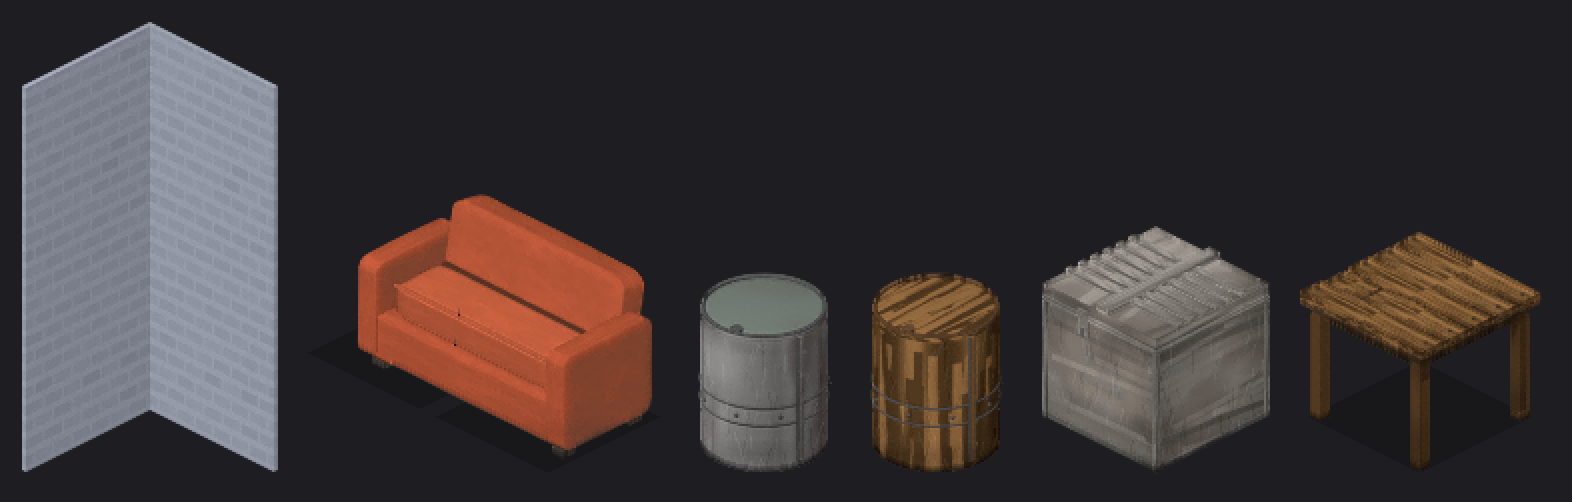
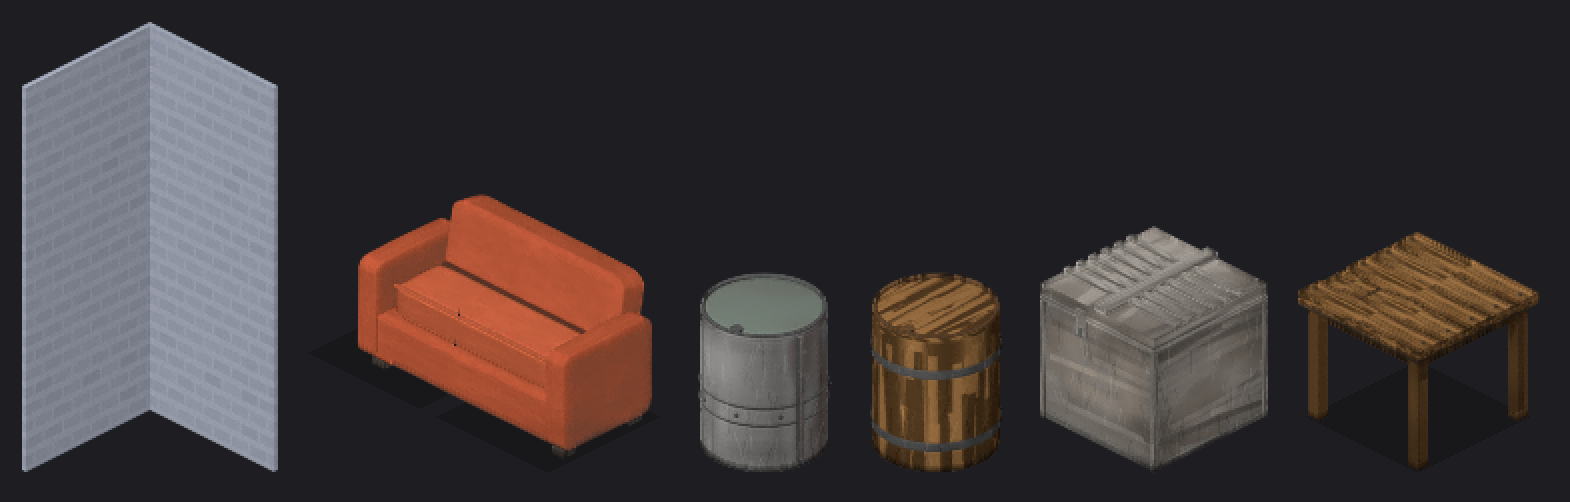
wooden drum: drop sheet-steel shapes, add binding hoops
The pressed rolling grooves, the bolted groove and the clinched seam strap
are material-born shapes -- sheet-steel forming -- so re-materialising them
in wood was still wrong. build_drum now takes grooves/seam_strap/bolts flags
(steel defaults unchanged) and an optional hoop_bands list that draws proud,
wide binding hoops with the dark role's material; the barrel turns those
shapes off and asks for two iron hoops instead.

Changed region(s): [[0.5306, 0.7171, 0.6554, 0.9263], [0.593, 0.6275, 0.6242, 0.6574], [0.5306, 0.6873, 0.5618, 0.7171]]

diff --git a/examples/metal_drum.py b/examples/metal_drum.py
@@ -189,7 +189,9 @@ def drum_materials() -> dict:
     }
 
 
-def build_drum(mats: dict | None = None) -> list[bpy.types.Object]:
+def build_drum(mats: dict | None = None, *, grooves: bool = True,
+               seam_strap: bool = True, bolts: bool = True,
+               hoop_bands: tuple[float, ...] = ()) -> list[bpy.types.Object]:
     """Stage 2 -- the drum's SHAPE, material-agnostic.
 
     A first attempt with three fat bright rings and isotropic mottling scored inside
@@ -218,6 +220,11 @@ def build_drum(mats: dict | None = None) -> list[bpy.types.Object]:
     # Conflating them was exactly the wooden drum's grey-rim mistake.
     cap_mat = mats.get("cap", dark_mat)
     bung_mat = mats.get("bung", dark_mat)
+    # Rolling grooves, the bolted lower groove and the vertical seam strap are
+    # MATERIAL-BORN shapes -- pressed and clinched sheet steel. A recipe in
+    # another material turns them off and asks for ``hoop_bands`` instead:
+    # proud, wide binding bands (a barrel's iron hoops) at the given heights,
+    # drawn with the "dark" role's material.
 
     r = DIAMETER / 2
     parts = []
@@ -297,8 +304,20 @@ def build_drum(mats: dict | None = None) -> list[bpy.types.Object]:
     # the lid. Vanilla's rim is a ring *inside* the top ellipse.
     ring("drum_chime", r - CHIME_RADIUS, CHIME_RADIUS, body_top, chime_mat)
     # Rolling grooves: thin, dark lines -- the opposite of a proud bright hoop.
-    for i, z in enumerate(GROOVE_HEIGHTS):
-        ring(f"drum_groove_{i}", r, 0.007, z, dark_mat)
+    if grooves:
+        for i, z in enumerate(GROOVE_HEIGHTS):
+            ring(f"drum_groove_{i}", r, 0.007, z, dark_mat)
+    # Binding bands for non-steel builds: open tubes standing proud of the
+    # shell, wide enough (3-4 px on screen) to read as forged hoops.
+    for i, z in enumerate(hoop_bands):
+        bpy.ops.mesh.primitive_cylinder_add(
+            vertices=64, radius=r + 0.008, depth=0.055, location=(0, 0, z),
+            end_fill_type="NOTHING")
+        band = bpy.context.active_object
+        band.name = f"drum_hoop_band_{i}"
+        band.data.materials.append(dark_mat)
+        shade_curved_sides()
+        parts.append(band)
 
     # The vanilla bung sits near the lid's front-left rim, not its centre: its pixel
     # position (44, 172) against the lid centre (64, 155) inverts through the
@@ -309,7 +328,7 @@ def build_drum(mats: dict | None = None) -> list[bpy.types.Object]:
              smooth=False, verts=16).location = (0.075, -0.29, bung_z)
 
     # Bolt heads dotted along the lower groove, as in the sprite.
-    for k in range(9):
+    for k in range(9 if bolts else 0):
         angle = math.radians(k * 40.0)
         bpy.ops.mesh.primitive_uv_sphere_add(segments=10, ring_count=6, radius=0.013,
                                              location=(math.sin(angle) * (r + 0.006),
@@ -345,24 +364,26 @@ def build_drum(mats: dict | None = None) -> list[bpy.types.Object]:
         parts.append(obj)
         return obj
 
-    # Backing plate, visible only as the two dark edge lines...
-    strap_box("drum_strap_back", 0.044, 0.022, 0.002, strap_h, strap_mid,
-              strap_edge_mat)
-    # ...because a narrower body-toned face sits proud of it. This is what makes the
-    # seam read raised: paint on its face, shadow lines at its borders. The vanilla
-    # strap is petite -- about 5 px overall with a 3 px face and 1 px lines -- and
-    # every wider or prouder build read as tape stuck on the barrel: the box is
-    # tangent-flat against a curved surface, so excess width shows up as a dark
-    # side face and excess proudness as silhouette bumps.
-    strap_box("drum_strap_face", 0.026, 0.024, 0.004, strap_h, strap_mid,
-              strap_face_mat)
+    if seam_strap:
+        # Backing plate, visible only as the two dark edge lines...
+        strap_box("drum_strap_back", 0.044, 0.022, 0.002, strap_h, strap_mid,
+                  strap_edge_mat)
+        # ...because a narrower body-toned face sits proud of it. This is what
+        # makes the seam read raised: paint on its face, shadow lines at its
+        # borders. The vanilla strap is petite -- about 5 px overall with a
+        # 3 px face and 1 px lines -- and every wider or prouder build read as
+        # tape stuck on the barrel: the box is tangent-flat against a curved
+        # surface, so excess width shows up as a dark side face and excess
+        # proudness as silhouette bumps.
+        strap_box("drum_strap_face", 0.026, 0.024, 0.004, strap_h, strap_mid,
+                  strap_face_mat)
 
-    # Notches ride the strap's right edge in the sprite -- small lit blocks bridging
-    # the border line, not holes punched through the strap.
-    for k in range(5):
-        z = HEIGHT * (0.16 + 0.17 * k)
-        strap_box(f"drum_notch_{k}", 0.013, 0.022, 0.005, 0.020, z,
-                  strap_face_mat, tangent_shift=0.021)
+        # Notches ride the strap's right edge in the sprite -- small lit
+        # blocks bridging the border line, not holes punched through it.
+        for k in range(5):
+            z = HEIGHT * (0.16 + 0.17 * k)
+            strap_box(f"drum_notch_{k}", 0.013, 0.022, 0.005, 0.020, z,
+                      strap_face_mat, tangent_shift=0.021)
 
     return parts
 

diff --git a/examples/wood_drum.py b/examples/wood_drum.py
@@ -51,9 +51,11 @@ def wood_drum_materials() -> dict:
     The role split matters more than the paints: the rim (chime + cap ring)
     is a MATERIAL-BORN shape -- rolled steel on the drum, stave ends on a
     barrel -- so it turns to dark wood here, and so does the bung (a wooden
-    stopper). Only the parts that are iron on a real barrel stay in the
-    metal class: the grooves-and-bolts role (the hoops) and the seam strap.
-    Mapping the whole rim to metal was the first draft's grey-halo mistake."""
+    stopper). The barrel's only iron is the "dark" role, which draws the
+    proud binding hoops main() asks for; the sheet-steel shapes (pressed
+    grooves, bolts, the clinched seam strap) are switched off there instead
+    of re-materialised. Mapping the whole rim to metal, and keeping steel's
+    grooves and strap at all, were the first drafts' two mistakes."""
     return {
         "body": F.forge_material("wooddrum_body", "wood", (0.405, 0.223, 0.075),
                                  texture_path=GRAIN_PATH, projection="UV"),
@@ -96,7 +98,12 @@ def main() -> None:
     scene.cycles.use_denoising = True
 
     subject = bpy.data.objects[F.SUBJECT_NAME]
-    for part in drum.build_drum(wood_drum_materials()):
+    # The pressed grooves, bolted groove and clinched seam strap are sheet-
+    # steel shapes -- a barrel has none of them. Its iron lives in proud,
+    # wide binding hoops instead, low and high on the shell.
+    for part in drum.build_drum(wood_drum_materials(), grooves=False,
+                                seam_strap=False, bolts=False,
+                                hoop_bands=(0.16, 0.62)):
         part.parent = subject
 
     manifest = F.render_cells(bpy.context)
